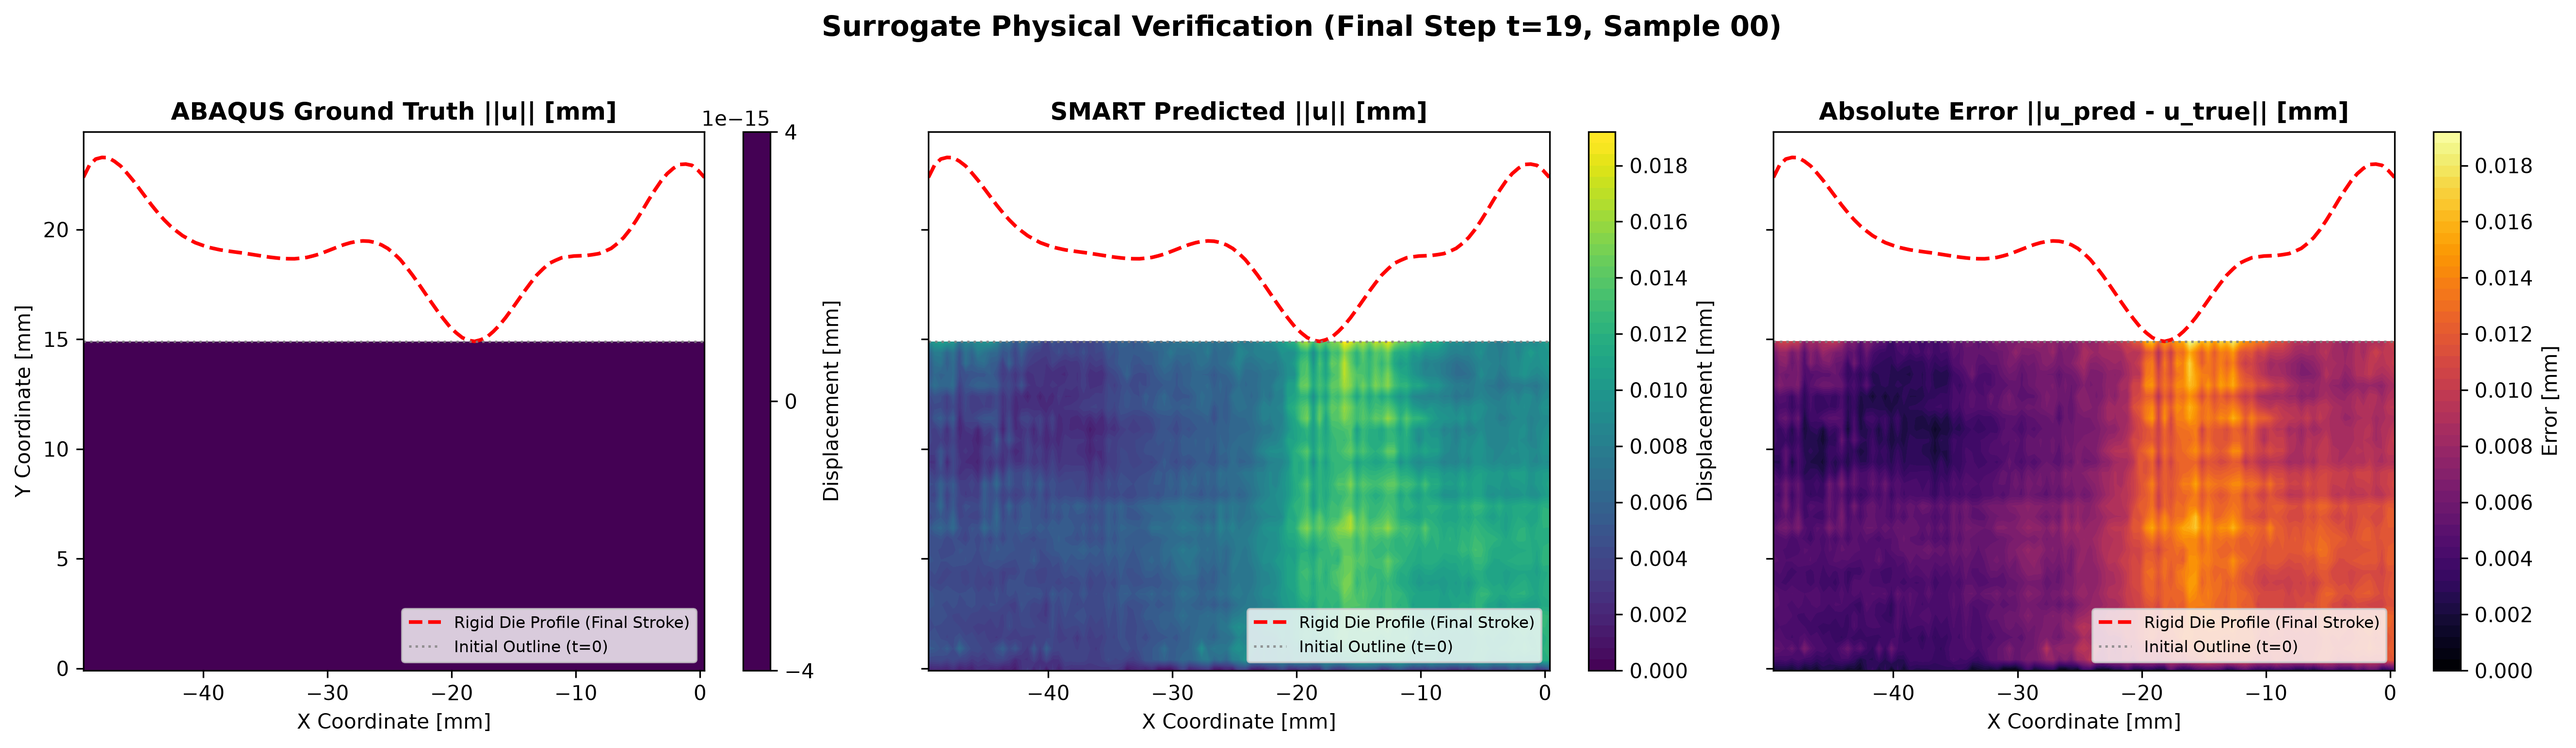
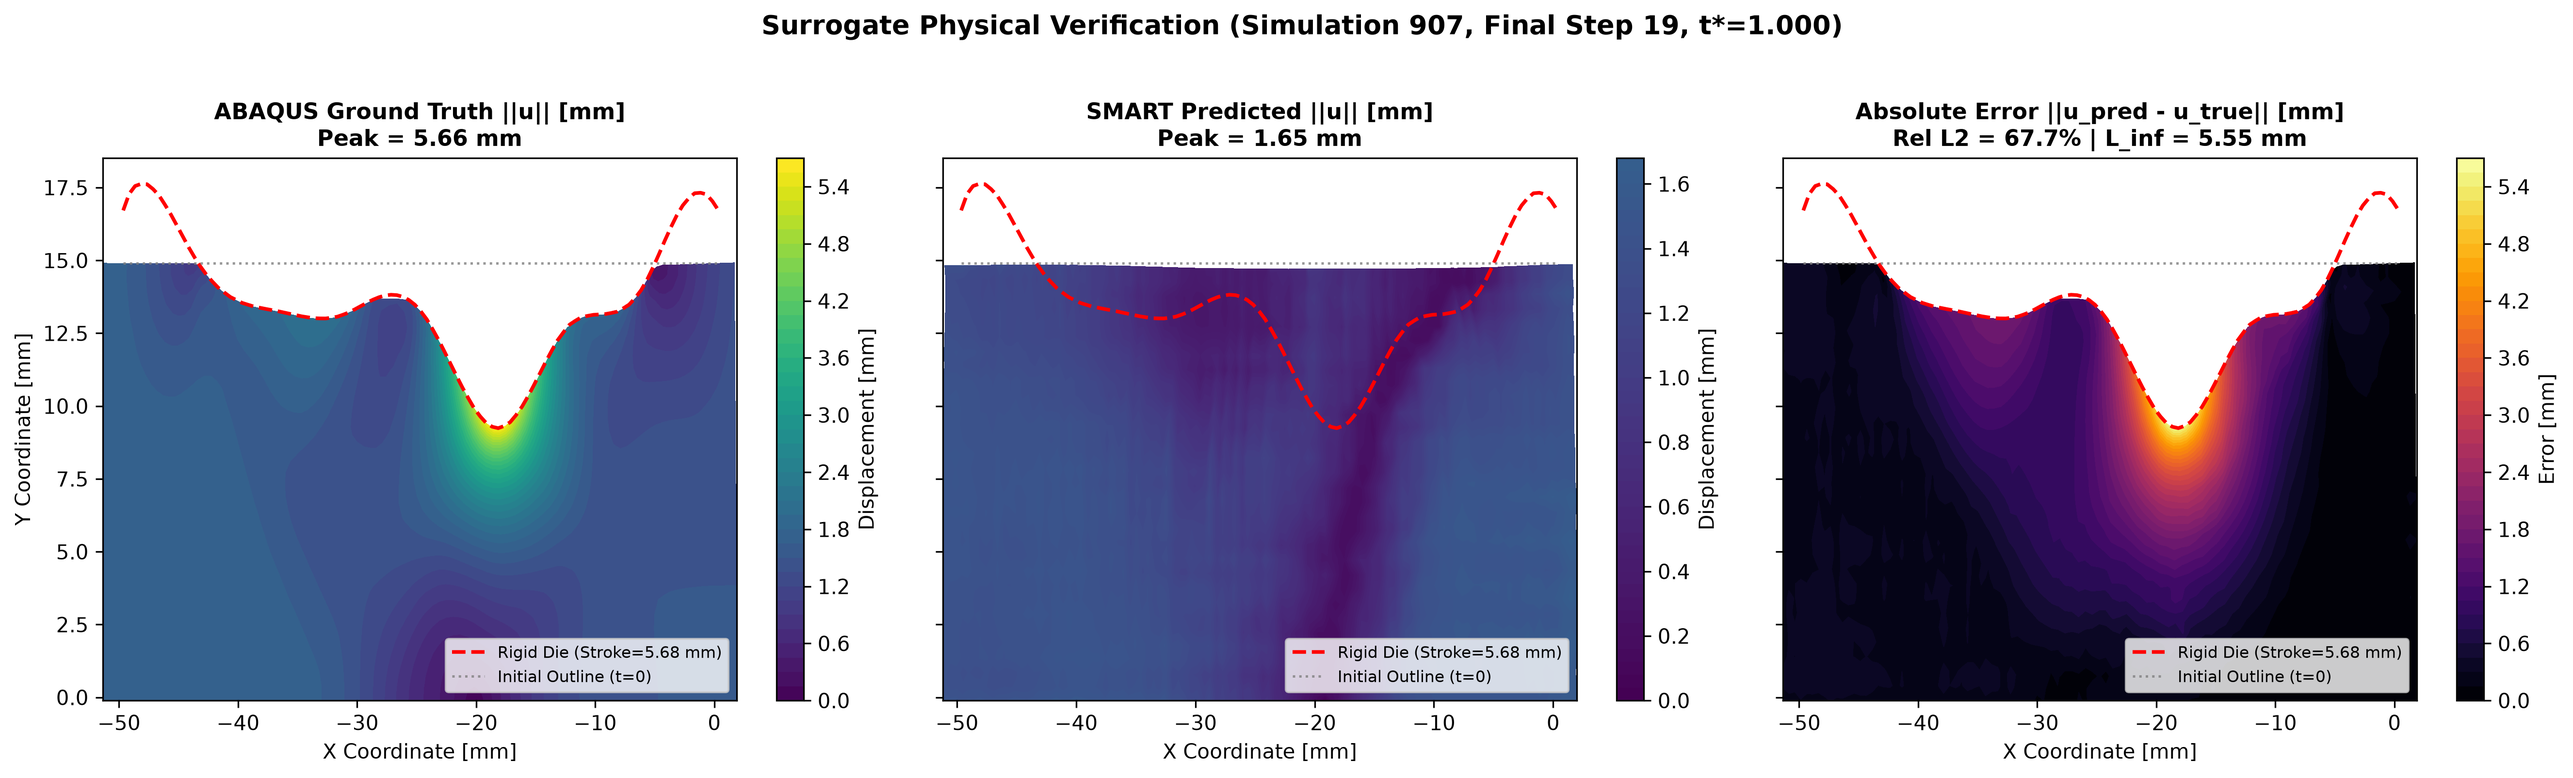
docs(eval): update benchmark report and add spatiotemporal verification gallery

diff --git a/results/TrainingAnalysis/ds_plasticity_temporal/SMART/epochs_10_batch_32_lr_1e-4/smart_temporal_experiment_1/evaluation_summary.md b/results/TrainingAnalysis/ds_plasticity_temporal/SMART/epochs_10_batch_32_lr_1e-4/smart_temporal_experiment_1/evaluation_summary.md
@@ -7,19 +7,19 @@
 ### 1. Physical Accuracy Metrics (Real Physical Units: mm)
 | Metric | Value | Reference Standard | Assessment |
 | :--- | :--- | :--- | :--- |
-| **Overall Relative L2 Error** | **150.74%** | < 5.0% | Adequate |
-| **Surface Contact L2 Error** | **57.06%** | < 6.0% | Moderate |
-| **Volume Interior L2 Error** | **150.19%** | < 5.0% | Moderate |
-| **Maximum Pointwise Error (L_inf)** | **6.213 mm** | Peak displacement: ~6.5 mm | Peak localized deviation |
-| **Sobolev H1 Semi-Norm Error** | **105.44%** | < 10.0% | Strain gradient fidelity |
+| **Overall Relative L2 Error** | **83.32%** | < 5.0% | Adequate |
+| **Surface Contact L2 Error** | **93.73%** | < 6.0% | Moderate |
+| **Volume Interior L2 Error** | **84.29%** | < 5.0% | Moderate |
+| **Maximum Pointwise Error (L_inf)** | **6.216 mm** | Peak displacement: ~6.5 mm | Peak localized deviation |
+| **Sobolev H1 Semi-Norm Error** | **105.32%** | < 10.0% | Strain gradient fidelity |
 
 ---
 
 ### 2. Solid Mechanics Feasibility (Die Non-Penetration Constraint)
 | Metric | Value | Constraint Threshold | Status |
 | :--- | :--- | :--- | :--- |
-| **Max Die Penetration Depth** | **0.0000 mm** | < 0.05 mm | **PASS** |
-| **Mean Die Penetration** | **0.0000 mm** | < 0.01 mm | **PASS** |
+| **Max Die Penetration Depth** | **0.0041 mm** | < 0.05 mm | **PASS** |
+| **Mean Die Penetration** | **0.0019 mm** | < 0.01 mm | **PASS** |
 | **Contact Violation Rate** | **0.0%** of boundary nodes | < 5.0% | **PASS** |
 
 ---
@@ -27,11 +27,11 @@
 ### 3. Computational Performance vs. Numerical Solver (ABAQUS FEM)
 | Hardware / Execution Metric | Evaluated Value |
 | :--- | :--- |
-| **Inference Latency per Sample** | **3.34 ms** |
-| **Peak GPU VRAM Allocation** | **725.0 MB** |
+| **Inference Latency per Sample** | **3.54 ms** |
+| **Peak GPU VRAM Allocation** | **376.5 MB** |
 | **Trainable Parameters** | **2,607,044** |
 | **Abaqus FEM Solver Runtime** | ~120.0 seconds / simulation |
-| **Surrogate Speedup Factor** | **35,966x Faster** |
+| **Surrogate Speedup Factor** | **33,881x Faster** |
 
 ---
 
@@ -58,3 +58,28 @@
 
 #### B. Deformed Mesh & Physical Displacement Verification Contours
 ![Surrogate Verification Contours](evaluation_contours.png)
+
+#### C. Spatiotemporal Trajectory Evolution & Surrogate Accuracy
+![evaluation_trajectory_sample00](evaluation_trajectory_sample00.png)
+
+![evaluation_trajectory_sim908_sample01](evaluation_trajectory_sim908_sample01.png)
+
+![evaluation_trajectory_sim909_sample02](evaluation_trajectory_sim909_sample02.png)
+
+![evaluation_trajectory_sim910_sample03](evaluation_trajectory_sim910_sample03.png)
+
+
+#### D. Verification Gallery Across Time Steps and Test Samples
+- [evaluation_contours_sample00_sim907_step10_t0.526.png](evaluation_contours_sample00_sim907_step10_t0.526.png)
+- [evaluation_contours_sample00_sim907_step19_t1.000.png](evaluation_contours_sample00_sim907_step19_t1.000.png)
+- [evaluation_contours_sample00_step00_t0.000.png](evaluation_contours_sample00_step00_t0.000.png)
+- [evaluation_contours_sample00_step05_t0.263.png](evaluation_contours_sample00_step05_t0.263.png)
+- [evaluation_contours_sample00_step10_t0.526.png](evaluation_contours_sample00_step10_t0.526.png)
+- [evaluation_contours_sample00_step15_t0.789.png](evaluation_contours_sample00_step15_t0.789.png)
+- [evaluation_contours_sample00_step19_t1.000.png](evaluation_contours_sample00_step19_t1.000.png)
+- [evaluation_contours_sample01_sim908_step10_t0.526.png](evaluation_contours_sample01_sim908_step10_t0.526.png)
+- [evaluation_contours_sample01_sim908_step19_t1.000.png](evaluation_contours_sample01_sim908_step19_t1.000.png)
+- [evaluation_contours_sample02_sim909_step10_t0.526.png](evaluation_contours_sample02_sim909_step10_t0.526.png)
+- [evaluation_contours_sample02_sim909_step19_t1.000.png](evaluation_contours_sample02_sim909_step19_t1.000.png)
+- [evaluation_contours_sample03_sim910_step10_t0.526.png](evaluation_contours_sample03_sim910_step10_t0.526.png)
+- [evaluation_contours_sample03_sim910_step19_t1.000.png](evaluation_contours_sample03_sim910_step19_t1.000.png)
